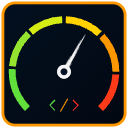
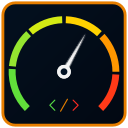
Refine orange brand palette

diff --git a/popup.css b/popup.css
@@ -11,9 +11,9 @@
   --muted:          #8b95a1;
   --muted-label:    #6b7280;
   --border:         #1f2937;
-  --brand:          #ff9800;
+  --brand:          #e67e00;
   --brand-text:     #ffb74d;
-  --border-accent:  rgba(255, 152, 0, 0.58);
+  --border-accent:  rgba(230, 126, 0, 0.58);
   --badge-bg:       #241607;
   --bar-bg:         #253142;
   --btn-bg:         #241607;
@@ -46,9 +46,9 @@
   --muted:          #60706c;
   --muted-label:    #68756f;
   --border:         #d8e2df;
-  --brand:          #ff9800;
+  --brand:          #e67e00;
   --brand-text:     #b45309;
-  --border-accent:  #f59e0b;
+  --border-accent:  #e67e00;
   --badge-bg:       #fff3e0;
   --bar-bg:         #d4dfdf;
   --btn-bg:         #fff3e0;
@@ -432,7 +432,7 @@ footer {
 /* Dark theme → chip uses light background */
 #review-chip {
   background: #fff3e0;
-  border: 1px solid rgba(255, 152, 0, 0.4);
+  border: 1px solid rgba(230, 126, 0, 0.4);
   border-radius: 8px;
   padding: 10px 12px;
   display: flex;
@@ -450,7 +450,7 @@ footer {
 /* Light theme → chip uses dark background */
 [data-theme="light"] #review-chip {
   background: #0b0f14;
-  border-color: rgba(255, 152, 0, 0.45);
+  border-color: rgba(230, 126, 0, 0.45);
 }
 
 [data-theme="light"] #review-chip p {
@@ -478,10 +478,10 @@ footer {
 /* Chip buttons — dark theme (chip is light) */
 #review-btn-rate {
   background: var(--brand);
-  border: 1px solid #cc7a00;
+  border: 1px solid #b45f00;
   color: #ffffff;
 }
-#review-btn-rate:hover { background: #e68a00; }
+#review-btn-rate:hover { background: #cc6d00; }
 
 #review-btn-later,
 #review-btn-never {
@@ -495,10 +495,10 @@ footer {
 /* Chip buttons — light theme (chip is dark) */
 [data-theme="light"] #review-btn-rate {
   background: var(--brand);
-  border: 1px solid #cc7a00;
+  border: 1px solid #b45f00;
   color: #ffffff;
 }
-[data-theme="light"] #review-btn-rate:hover { background: #e68a00; }
+[data-theme="light"] #review-btn-rate:hover { background: #cc6d00; }
 
 [data-theme="light"] #review-btn-later,
 [data-theme="light"] #review-btn-never {

diff --git a/onboarding.css b/onboarding.css
@@ -7,7 +7,7 @@
   --border:     #233041;
   --text:       #f8fafc;
   --muted:      #94a3b8;
-  --brand:      #ff9800;
+  --brand:      #e67e00;
   --brand-hi:   #ffb74d;
   --success:    #22c55e;
 }
@@ -48,7 +48,7 @@ body {
   height: 84px;
   border-radius: 20px;
   box-shadow:
-    0 0 0 1px rgba(255, 152, 0, .28),
+    0 0 0 1px rgba(230, 126, 0, .28),
     0 16px 40px rgba(0, 0, 0, .45);
 }
 
@@ -78,9 +78,9 @@ body {
 
 .pill {
   padding: 6px 14px;
-  border: 1px solid rgba(255, 152, 0, .28);
+  border: 1px solid rgba(230, 126, 0, .28);
   border-radius: 999px;
-  background: rgba(255, 152, 0, .08);
+  background: rgba(230, 126, 0, .08);
   color: var(--brand-hi);
   font-size: 12px;
 }
@@ -112,7 +112,7 @@ body {
 }
 
 .step:hover {
-  border-color: rgba(255, 152, 0, .42);
+  border-color: rgba(230, 126, 0, .42);
   background: var(--surface-hi);
 }
 
@@ -122,9 +122,9 @@ body {
   display: grid;
   place-items: center;
   flex: 0 0 auto;
-  border: 1px solid rgba(255, 152, 0, .28);
+  border: 1px solid rgba(230, 126, 0, .28);
   border-radius: 50%;
-  background: rgba(255, 152, 0, .1);
+  background: rgba(230, 126, 0, .1);
   color: var(--brand);
   font-size: 13px;
   font-weight: 700;
@@ -153,18 +153,18 @@ body {
   gap: 10px;
   padding: 14px 28px;
   border-radius: 8px;
-  border: 1px solid #cc7a00;
+  border: 1px solid #b45f00;
   background: var(--brand);
   color: #111827;
   font-size: 16px;
   font-weight: 750;
   text-decoration: none;
-  box-shadow: 0 14px 30px rgba(255, 152, 0, .18);
+  box-shadow: 0 14px 30px rgba(230, 126, 0, .18);
   transition: background .15s ease, transform .15s ease;
 }
 
 .btn-primary:hover {
-  background: var(--brand-hi);
+  background: #cc6d00;
   transform: translateY(-1px);
 }
 
